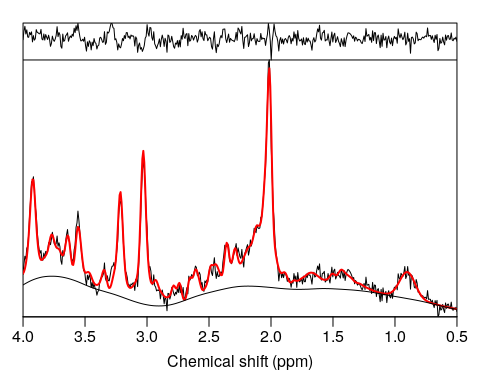
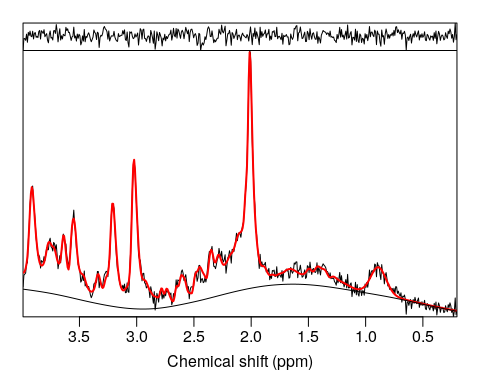
readme update

diff --git a/README.md b/README.md
@@ -126,16 +126,12 @@ stackplot(basis, xlim = c(4, 0.5), labels = basis$names, y_offset = 5)
 ![](README-basis_sim-1.png)<!-- -->
 
 ``` r
-# perform VARPRO fitting to processed data
+# perform ABfit analysis of processed data
 fit_res <- fit_mrs(mrs_proc, basis)
-#> 
-  |                                                                       
-  |                                                                 |   0%
-  |                                                                       
-  |=================================================================| 100%
+#>   |                                                                              |                                                                      |   0%  |                                                                              |======================================================================| 100%
 
 # plot the fit estimate, residual and baseline
-plot(fit_res, xlim = c(4, 0.5))
+plot(fit_res)
 ```
 
 ![](README-fitting-1.png)<!-- -->
